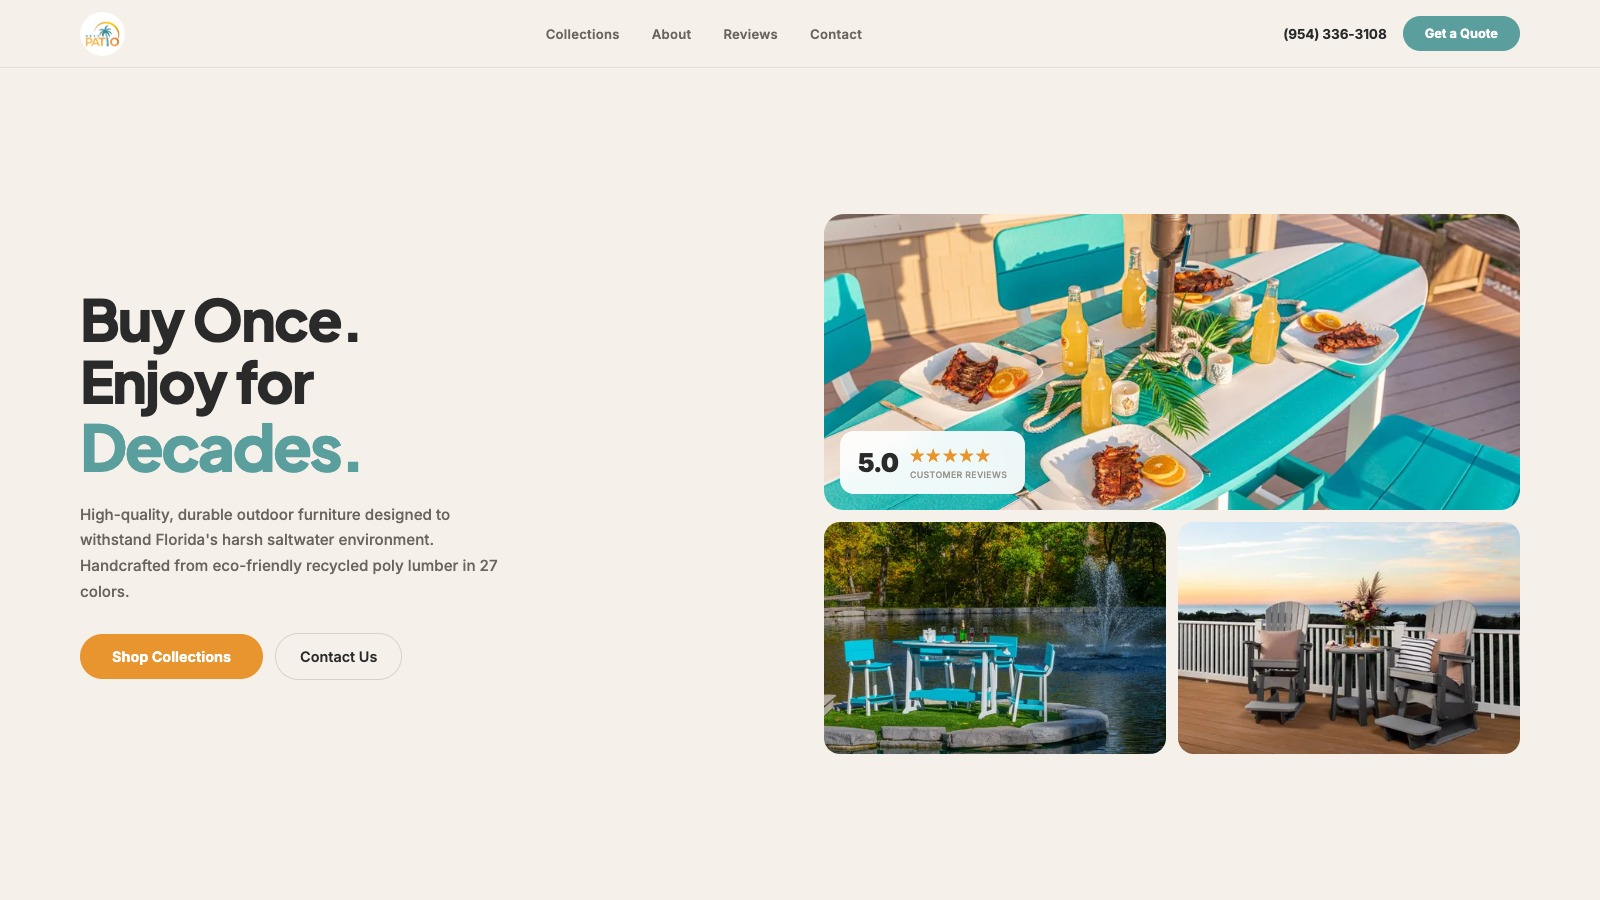
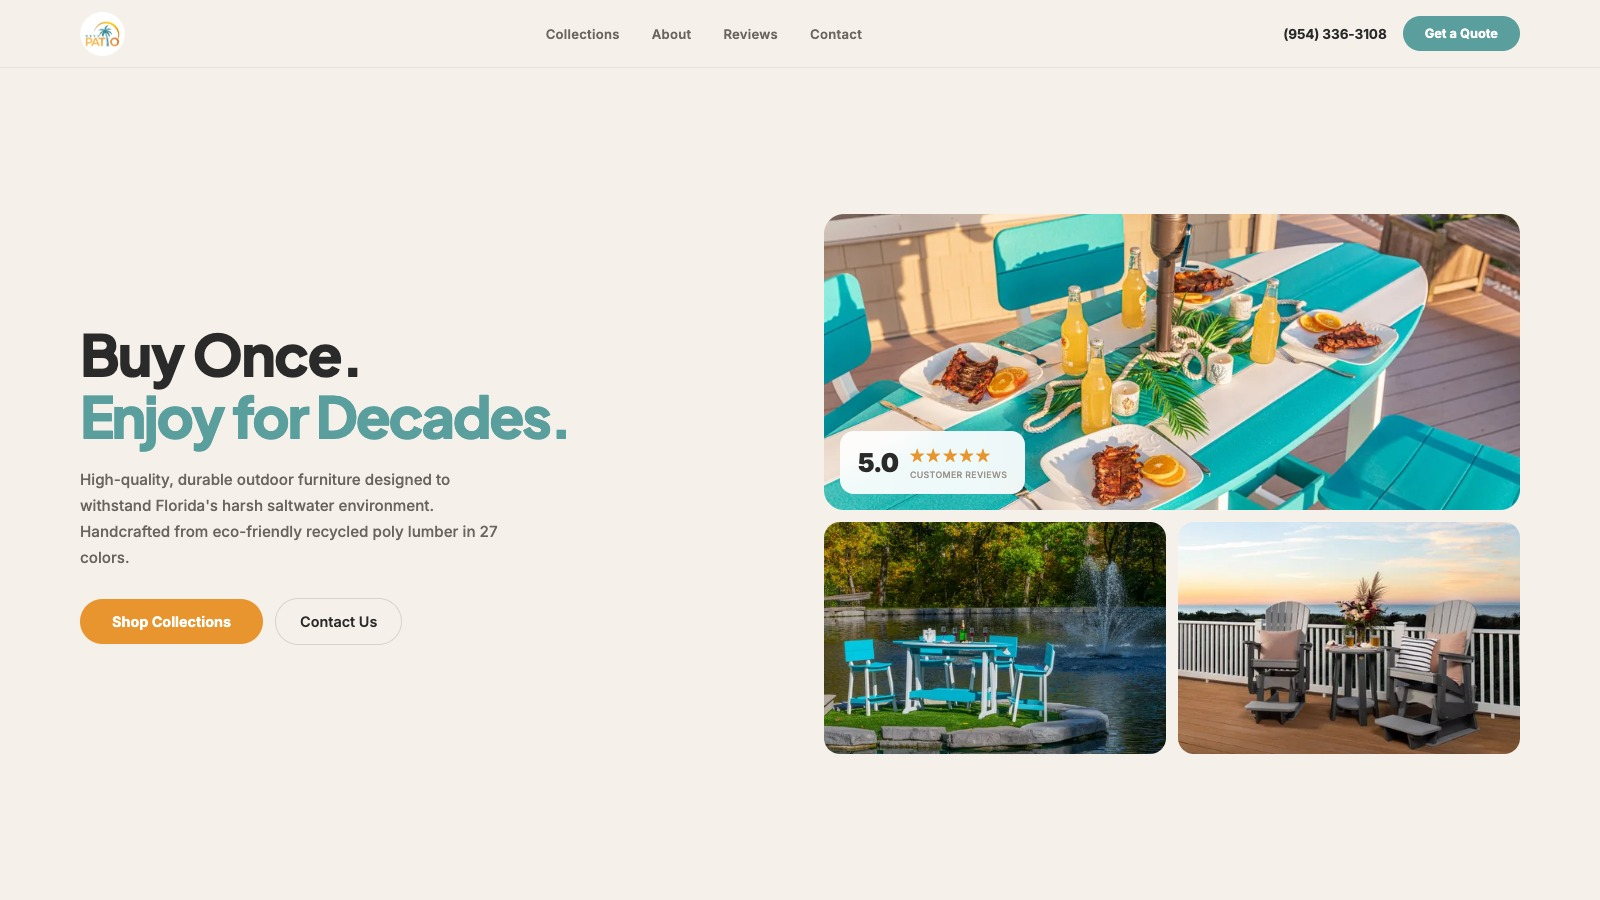
Put "Enjoy for Decades." on one line in hero headline

Changed region(s): [[0.0312, 0.3111, 0.3438, 0.7778]]

diff --git a/p/keys-patio-key-largo/index.html b/p/keys-patio-key-largo/index.html
@@ -53,7 +53,7 @@ nav{height:68px;background:var(--cream);display:flex;align-items:center;justify-
 /* HERO LEFT — copy */
 .hero-copy{display:flex;flex-direction:column;justify-content:center}
 .hero-h1{font-family:'Plus Jakarta Sans',sans-serif;font-size:clamp(2.4rem,4vw,3.6rem);font-weight:800;line-height:1.08;color:var(--dark);letter-spacing:-.03em;margin-bottom:20px}
-.hero-h1 strong{font-weight:800;font-size:clamp(2.6rem,4.4vw,4rem);display:block;letter-spacing:-.04em;color:var(--teal)}
+.hero-h1 strong{font-weight:800;font-size:inherit;letter-spacing:-.04em;color:var(--teal)}
 .hero-sub{color:var(--warm-gray);font-size:.95rem;line-height:1.7;max-width:440px;margin-bottom:28px;font-weight:500}
 .btn-pill{display:inline-flex;align-items:center;gap:8px;background:var(--teal);color:var(--white);font-weight:700;font-size:.9rem;padding:14px 32px;border-radius:99px;text-decoration:none;transition:all .25s;border:none;cursor:pointer}
 .btn-pill:hover{background:var(--teal-hover);box-shadow:0 8px 24px rgba(58,154,154,.2);transform:translateY(-1px)}
@@ -234,7 +234,7 @@ footer{padding:32px clamp(24px,5vw,80px);display:flex;align-items:center;justify
 <!-- HERO -->
 <section class="hero">
   <div class="hero-copy">
-    <h1 class="hero-h1">Buy Once.<br>Enjoy for <strong>Decades.</strong></h1>
+    <h1 class="hero-h1">Buy Once.<br><strong>Enjoy for Decades.</strong></h1>
     <p class="hero-sub">High-quality, durable outdoor furniture designed to withstand Florida's harsh saltwater environment. Handcrafted from eco-friendly recycled poly lumber in 27 colors.</p>
     <div class="cta-row">
       <a href="#collections" class="btn-pill btn-pill-orange">Shop Collections</a>
